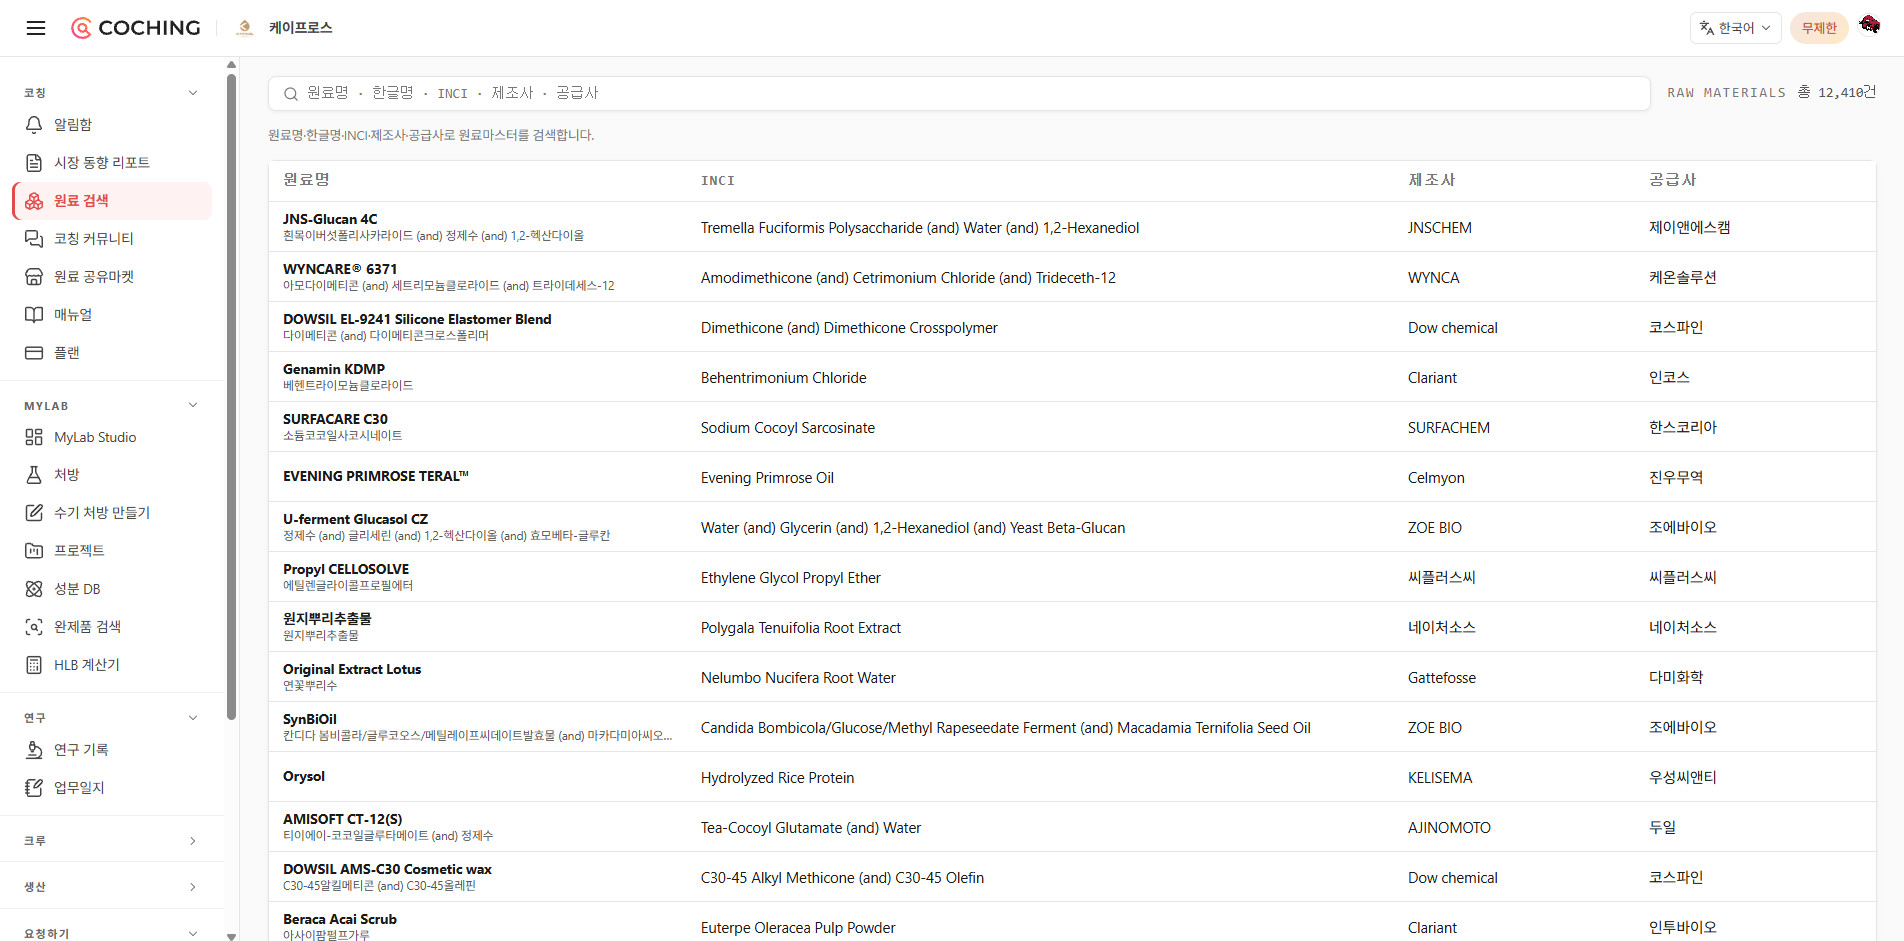
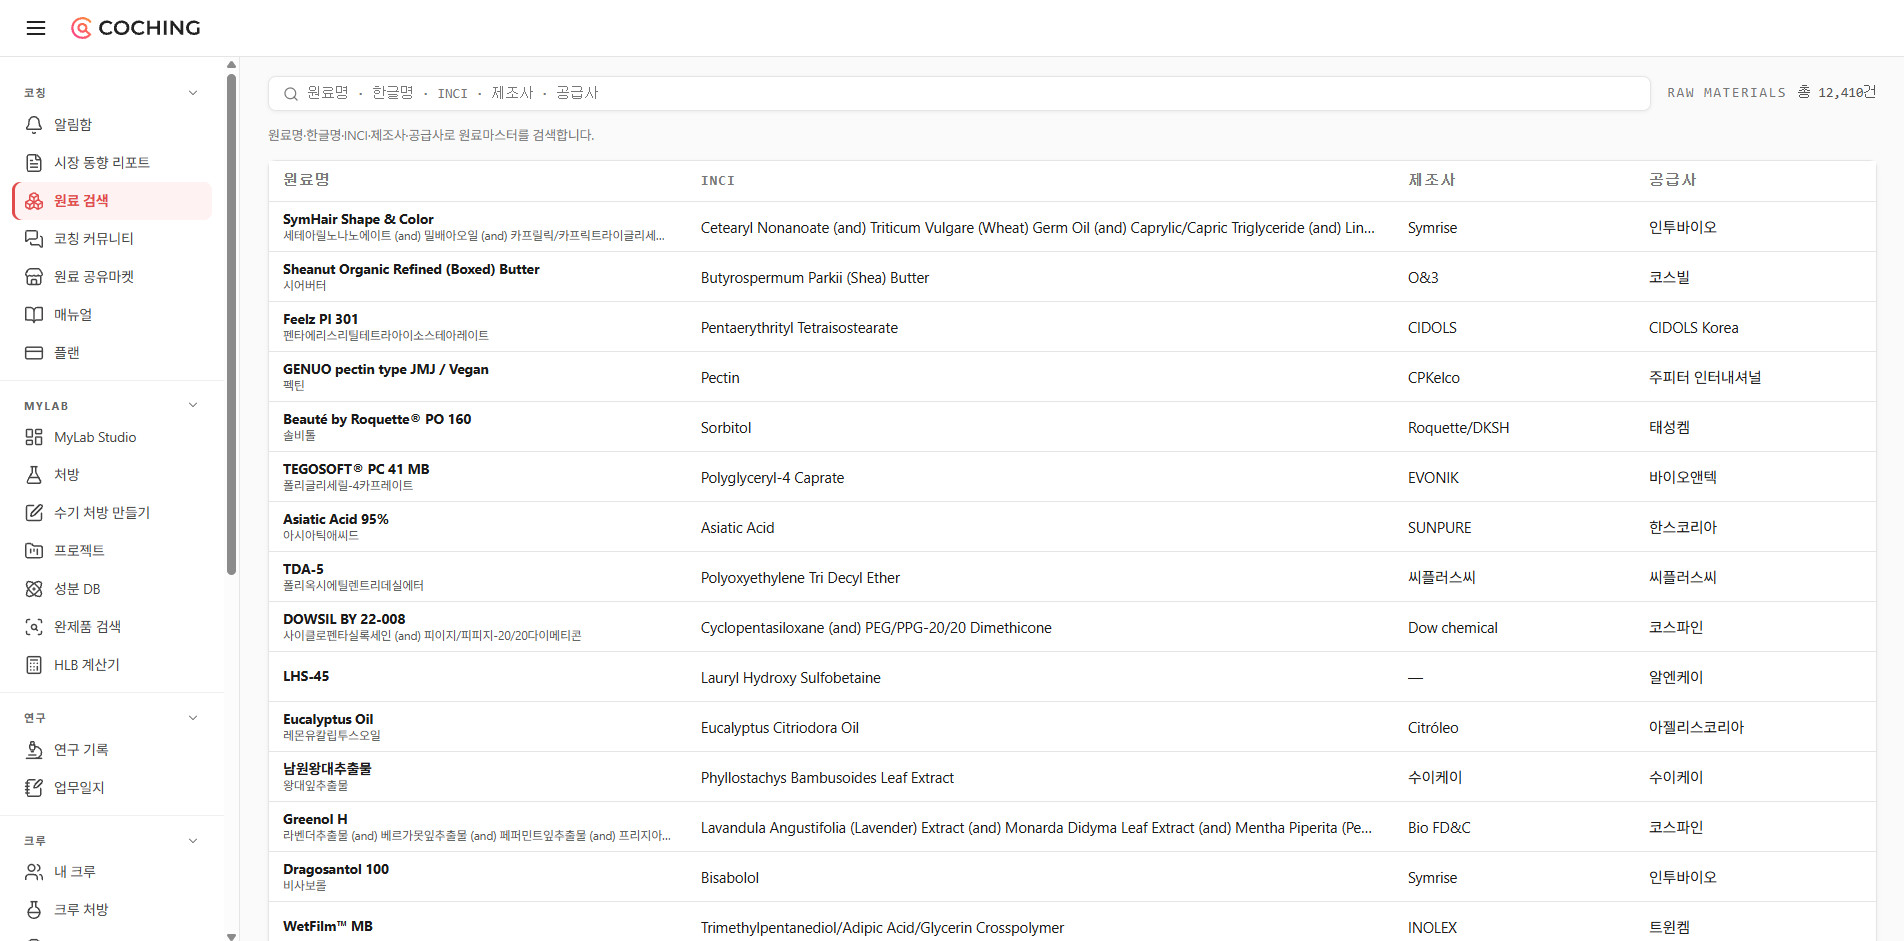
COCHING slider: 10 screens, recaptured without company name/account; formula, crews, production, inventory added
Claude-Session: https://claude.ai/code/session_01NrLyYHo9L5MZ4bfoRqCdHe

diff --git a/i18n.ts b/i18n.ts
@@ -25,7 +25,7 @@ type Dict = {
   support: { eyebrow: string; title: string; body: string; items: { title: string; body: string }[] };
   lab: { eyebrow: string; title: string; body: string; imgAlt: string; items: { title: string; body: string }[]; cta: string };
   coching: {
-    eyebrow: string; title: string; body: string; cta: string; ctaCn: string; imgAlt1: string; imgAlt2: string; prev: string; next: string; slides: Record<'market' | 'briefs' | 'search' | 'ingredients' | 'products' | 'hlb', string>;
+    eyebrow: string; title: string; body: string; cta: string; ctaCn: string; imgAlt1: string; imgAlt2: string; prev: string; next: string; slides: Record<'market' | 'briefs' | 'search' | 'ingredients' | 'products' | 'hlb' | 'formula' | 'crews' | 'orders' | 'materials', string>;
     features: { title: string; body: string }[]; note: string;
   };
   contact: {
@@ -102,7 +102,7 @@ const ko: Dict = {
     cta: 'coching.club 바로가기', ctaCn: '中文版 cn.coching.club',
     imgAlt1: 'COCHING 원료 시세·시장 동향 화면', imgAlt2: 'COCHING 시장 동향 리포트 화면',
     prev: '이전', next: '다음',
-    slides: { market: '원료 시세', briefs: '시장 동향 리포트', search: '원료 검색', ingredients: '성분 DB', products: '완제품 검색', hlb: 'HLB 계산기' },
+    slides: { market: '원료 시세', briefs: '시장 동향 리포트', search: '원료 검색', ingredients: '성분 DB', products: '완제품 검색', hlb: 'HLB 계산기', formula: '처방 생성', crews: '크루 협업', orders: '생산 지시', materials: '원료 재고' },
     features: [
       { title: '원료 마스터 검색', body: '원료명·한글명·INCI·제조사·공급사로 1만 2천 건 이상의 원료를 검색하고, 성분 DB와 완제품 검색으로 바로 이어집니다.' },
       { title: '국가별 규제 데이터베이스', body: '한국·EU·미국·일본·중국·ASEAN·러시아·대만 8개 권역의 사용 제한을 INCI 기준으로 확인합니다. 근거 출처가 있는 항목만 표시합니다.' },
@@ -188,7 +188,7 @@ const en: Dict = {
     cta: 'Open coching.club', ctaCn: '中文版 cn.coching.club',
     imgAlt1: 'COCHING market price and trend dashboard', imgAlt2: 'COCHING market briefs screen',
     prev: 'Prev', next: 'Next',
-    slides: { market: 'Ingredient prices', briefs: 'Market briefs', search: 'Ingredient search', ingredients: 'Ingredient DB', products: 'Product search', hlb: 'HLB calculator' },
+    slides: { market: 'Ingredient prices', briefs: 'Market briefs', search: 'Ingredient search', ingredients: 'Ingredient DB', products: 'Product search', hlb: 'HLB calculator', formula: 'Formula builder', crews: 'Crew collaboration', orders: 'Production orders', materials: 'Material inventory' },
     features: [
       { title: 'Ingredient master search', body: 'Search more than 12,000 ingredients by trade name, INCI, manufacturer or supplier, then move straight to the ingredient DB and finished-product search.' },
       { title: 'Regulatory database by market', body: 'Usage restrictions for Korea, the EU, the US, Japan, China, ASEAN, Russia and Taiwan, keyed by INCI name. Only entries with a cited source are shown.' },
@@ -274,7 +274,7 @@ const zh: Dict = {
     cta: '前往 coching.club', ctaCn: '中文版 cn.coching.club',
     imgAlt1: 'COCHING 原料行情与市场动态页面', imgAlt2: 'COCHING 市场动态报告页面',
     prev: '上一页', next: '下一页',
-    slides: { market: '原料行情', briefs: '市场动态报告', search: '原料检索', ingredients: '成分数据库', products: '成品检索', hlb: 'HLB 计算器' },
+    slides: { market: '原料行情', briefs: '市场动态报告', search: '原料检索', ingredients: '成分数据库', products: '成品检索', hlb: 'HLB 计算器', formula: '配方创建', crews: '团队协作', orders: '生产指示', materials: '原料库存' },
     features: [
       { title: '原料主数据检索', body: '按原料名、INCI、生产商、供应商检索 12,000 余条原料，并可直接跳转成分数据库与成品检索。' },
       { title: '各国法规数据库', body: '按 INCI 查询韩国、欧盟、美国、日本、中国、东盟、俄罗斯、台湾 8 个市场的使用限制，仅显示有出处依据的条目。' },

diff --git a/components/CochingSlider.tsx b/components/CochingSlider.tsx
@@ -8,6 +8,10 @@ export const COCHING_SLIDES = [
   { key: 'ingredients', src: '/coching/ingredients.jpg' },
   { key: 'products', src: '/coching/products.jpg' },
   { key: 'hlb', src: '/coching/hlb.jpg' },
+  { key: 'formula', src: '/coching/formula.jpg' },
+  { key: 'crews', src: '/coching/crews.jpg' },
+  { key: 'orders', src: '/coching/orders.jpg' },
+  { key: 'materials', src: '/coching/materials.jpg' },
 ] as const;
 
 const AUTO_MS = 6000;
